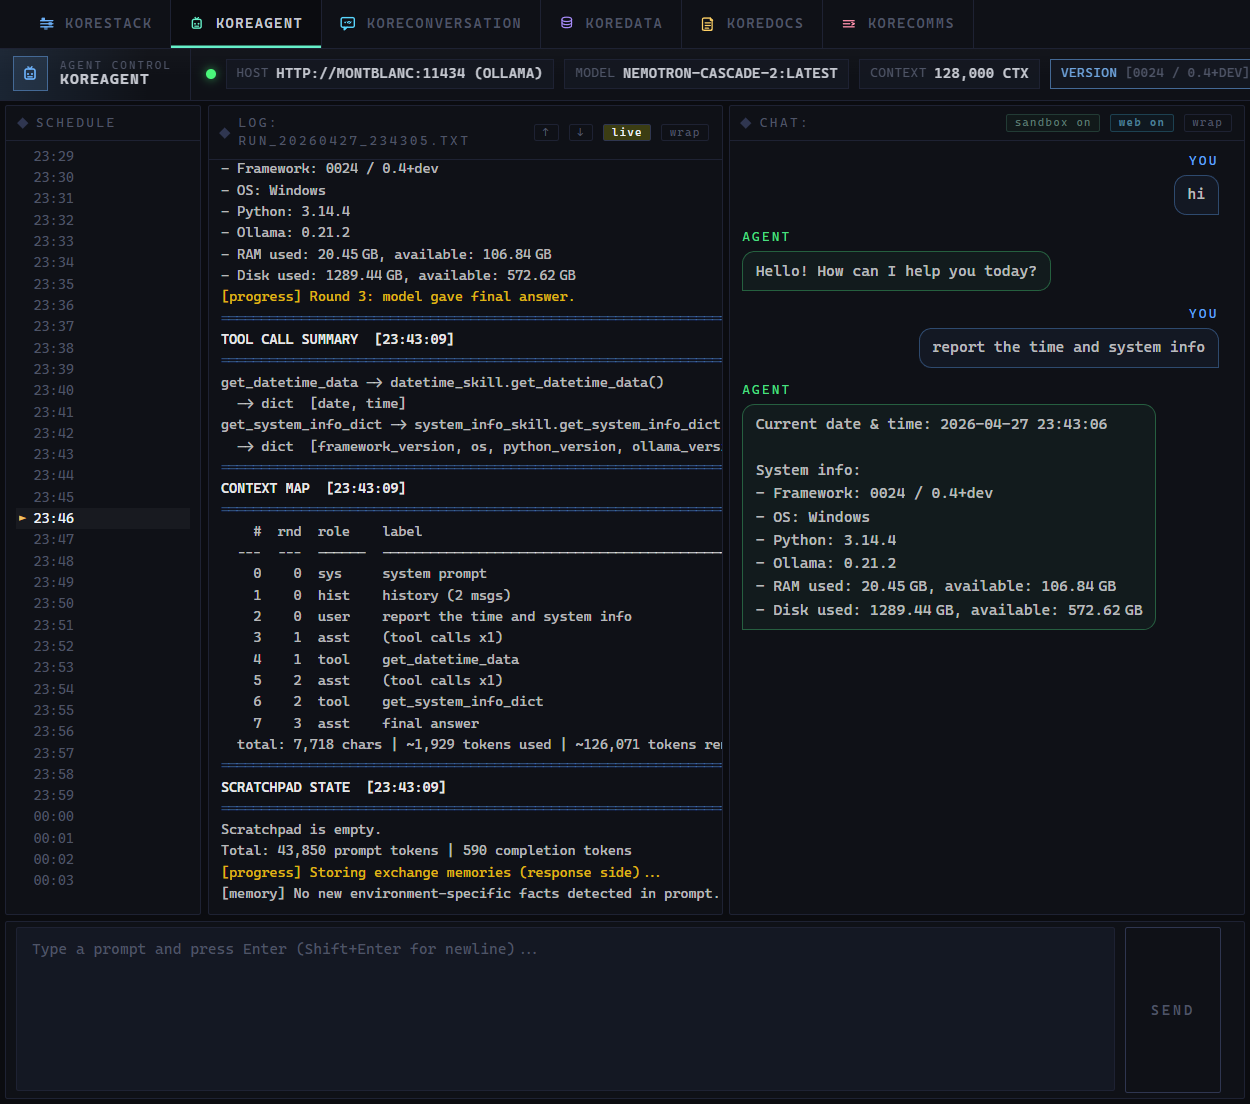
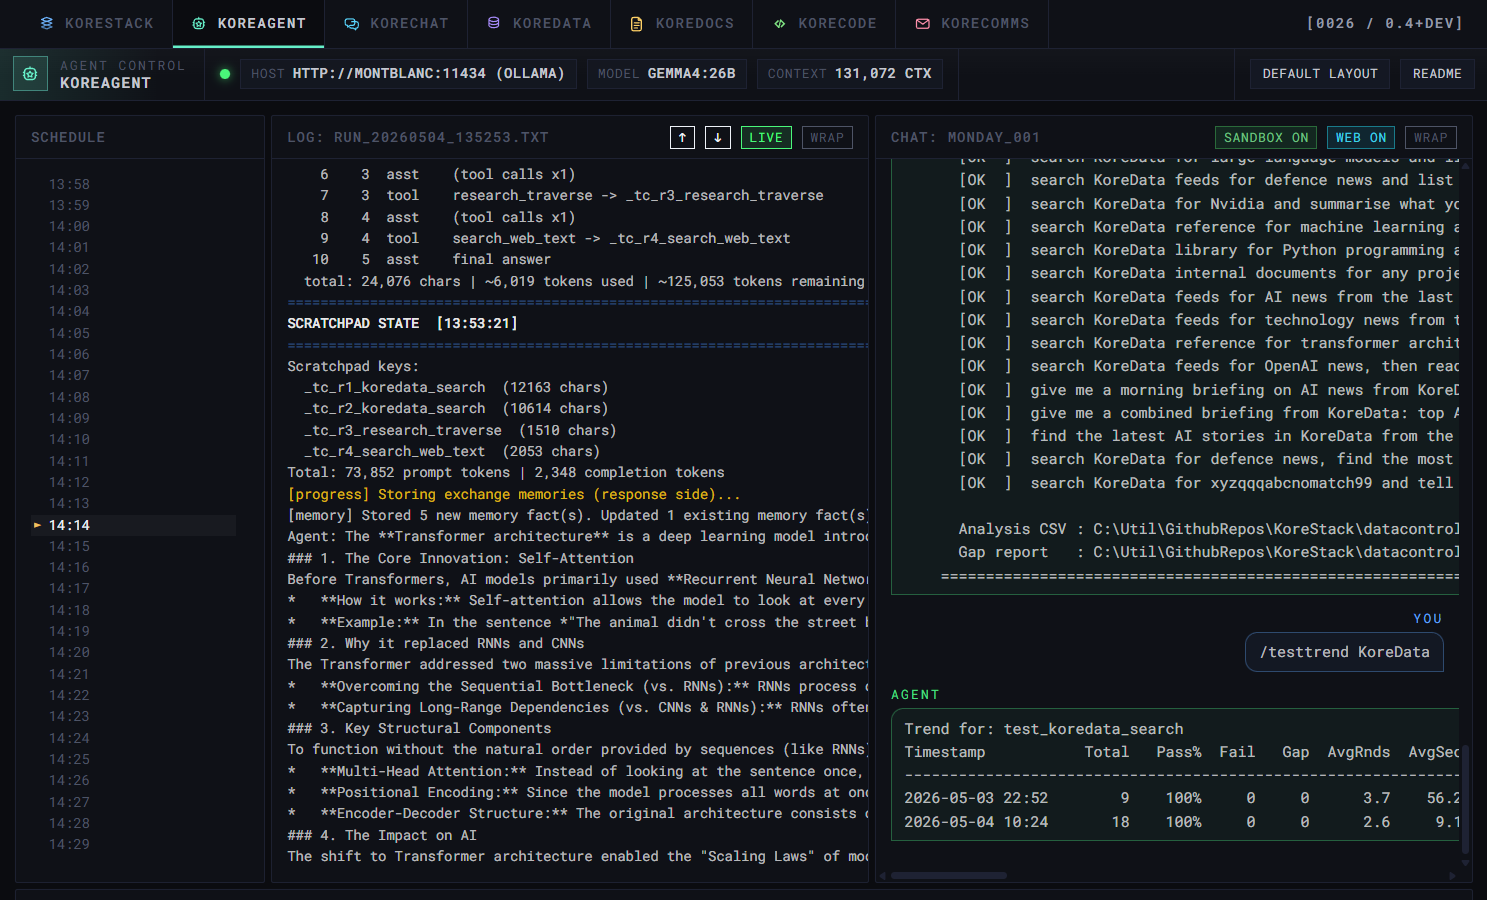
Readme image update

diff --git a/UIElements/assets/js/suiteMeta.js b/UIElements/assets/js/suiteMeta.js
@@ -1,1 +1,1 @@
-export const SUITE_VERSION = '[0027 / 0.5]';
+export const SUITE_VERSION = '[0028 / 0.5+dev]';

diff --git a/assets/readme/build_headline_gif.py b/assets/readme/build_headline_gif.py
@@ -9,44 +9,95 @@ ROOT = Path(__file__).resolve().parent
 FRAME_ORDER = [
     "01-korestack.png",
     "02-koreagent.png",
-    "03-korechat.png",
-    "04-koredata.png",
-    "05-koredocs-tabs.png",
-    "06-koredocs-doc.png",
-    "07-koredocs-sheet.png",
-    "08-koredocs-diag.png",
-    "06-korecomms.png",
+    "03-korechat-list.png",
+    "04-korechat-detail.png",
+    "05-koredata-home.png",
+    "06-koredata-feeds.png",
+    "07-koredata-library.png",
+    "08-koredata-book.png",
+    "09-koredata-reference.png",
+    "10-koredata-article.png",
+    "11-koredata-rag.png",
+    "12-koredocs-file.png",
+    "13-koredocs-doc.png",
+    "14-koredocs-sheet.png",
+    "15-korecode.png",
+    "16-korecomms-home.png",
+    "17-korecomms-compose.png",
+    "18-korecomms-connections.png",
+    "19-korecomms-activity.png",
 ]
-OUTPUT = ROOT / "kore-suite-headline.gif"
-POSTER = ROOT / "kore-suite-headline-poster.png"
+OUTPUT       = ROOT / "kore-suite-headline.gif"
+POSTER       = ROOT / "kore-suite-headline-poster.png"
+DWELL_MS     = 3140      # time each full image is shown
+FADE_STEPS   = 8         # number of blend frames in the crossfade
+FADE_STEP_MS = 40        # ms per blend frame (~25 fps)
 
 
-def _prepare(image: Image.Image) -> Image.Image:
-    return image.convert("P", palette=Image.Palette.ADAPTIVE)
+def _to_rgb(img: Image.Image) -> Image.Image:
+    return img.convert("RGB")
+
+
+def _to_palette(img: Image.Image) -> Image.Image:
+    return img.convert("P", palette=Image.Palette.ADAPTIVE, colors=256)
+
+
+def _blend_frames(a: Image.Image, b: Image.Image, steps: int) -> list[Image.Image]:
+    """Return `steps` crossfade frames blending from a to b (exclusive of endpoints)."""
+    out = []
+    for i in range(1, steps + 1):
+        alpha = i / (steps + 1)
+        blended = Image.blend(a, b, alpha)
+        out.append(_to_palette(blended))
+    return out
 
 
 def build() -> None:
-    frames = []
+    # Load all source images as RGB (consistent size: use first image dimensions)
+    sources: list[Image.Image] = []
     for filename in FRAME_ORDER:
-        image_path = ROOT / filename
-        if not image_path.exists():
-            raise FileNotFoundError(f"Missing frame: {image_path}")
-        with Image.open(image_path) as source:
-            frames.append(_prepare(source))
+        p = ROOT / filename
+        if not p.exists():
+            raise FileNotFoundError(f"Missing frame: {p}")
+        sources.append(_to_rgb(Image.open(p)))
 
-    if not frames:
+    if not sources:
         raise RuntimeError("No frames available")
 
-    frames[0].save(POSTER)
+    # Resize all to match first image size (they should already match)
+    target_size = sources[0].size
+    sources = [img.resize(target_size, Image.LANCZOS) if img.size != target_size else img
+               for img in sources]
+
+    # Build frame list: dwell frame + fade transition to next
+    frames: list[Image.Image] = []
+    durations: list[int] = []
+
+    for i, src in enumerate(sources):
+        # Dwell on this image
+        frames.append(_to_palette(src))
+        durations.append(DWELL_MS)
+
+        # Crossfade to next (wrap around to first at the end)
+        nxt = sources[(i + 1) % len(sources)]
+        for blend in _blend_frames(src, nxt, FADE_STEPS):
+            frames.append(blend)
+            durations.append(FADE_STEP_MS)
+
+    # Save poster (first full frame as RGB)
+    sources[0].save(POSTER)
+
+    # Save GIF
     frames[0].save(
         OUTPUT,
         save_all=True,
         append_images=frames[1:],
-        duration=2000,
+        duration=durations,
         loop=0,
-        optimize=True,
+        optimize=False,
         disposal=2,
     )
+    print(f"Saved {OUTPUT}  ({len(frames)} frames, {len(sources)} slides)")
 
 
 if __name__ == "__main__":

diff --git a/README.md b/README.md
@@ -3,7 +3,7 @@
 KoreStack is now the consolidated local-first suite for the Kore system. Instead of a
 set of separate repos that have to be started and understood independently, the suite is organized as one workspace with a single top-level entrypoint, a shared configuration layer, shared runtime data locations, and a coordinating control surface.
 
-![Kore Stack headline](assets/readme/kore-suite-headline.gif)
+![Kore Stack headline](progress/2026-05-04%20-%20kore-suite-headline.gif)
 
 The consolidation goal is not to turn everything into one process. The goal is to make
 the system operate as one product while keeping the service boundaries that are still